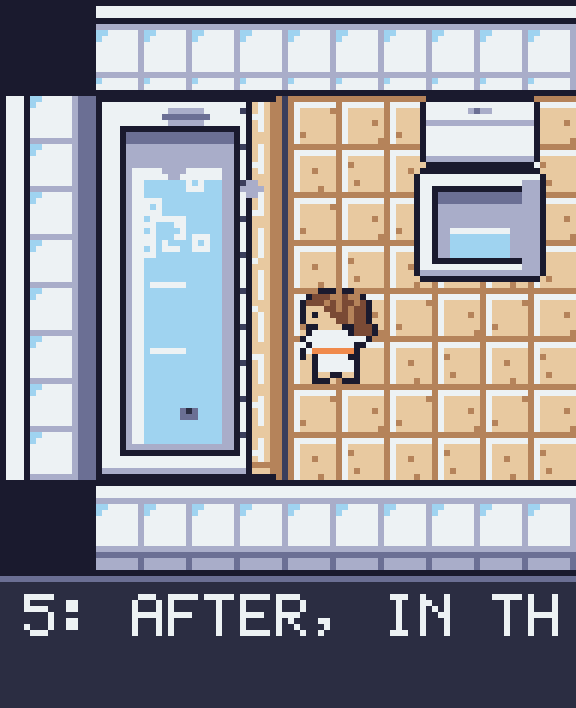
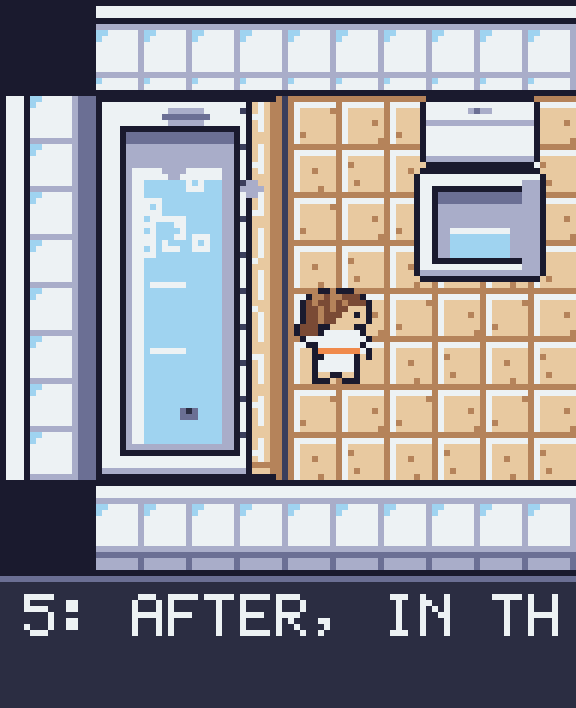
165: update for answers to d9 to d11 (player faces away from the tub)

Changed region(s): [[0.5, 0.404, 0.6562, 0.5282]]

diff --git a/docs/shower-scene-design.md b/docs/shower-scene-design.md
@@ -1,11 +1,11 @@
 # A Sims-like shower scene that ends in the bathrobe (design note, issue 165)
 
-Status: a design for Marc to confirm. Nothing is built; `src/` and `art/` are untouched. Marc answered the questions on 2026-11-24 (in [issues/165-shower-scene.md](../issues/165-shower-scene.md)): the scene plays **in the bath room itself**, the player stays in the tub with the effects drawn over it (d1), bubbles over the body with the head showing, steam and fog drifting up and droplets falling, all calm and slow (d2), a soft hiss and a quiet click when it stops with the music playing on (d3), and with reduced motion the steam is still and the bubbles do not move (d4). There is no cutscene: the player appears in the tub, and afterwards appears beside it in the robe or in everyday clothes (d5). No skip: Escape pays nothing (d6). Every shower plays the whole scene (d7). No close-up (d8). This note replaces an earlier version that designed a composed close-up (it is in git history on this branch).
+Status: a design for Marc to confirm. Nothing is built; `src/` and `art/` are untouched. Marc answered all the questions, d1 to d11, on 2026-11-24 (in [issues/165-shower-scene.md](../issues/165-shower-scene.md)): the scene plays **in the bath room itself**, the player stays in the tub with the effects drawn over it (d1), bubbles over the body with the head showing, steam and fog drifting up and droplets falling, all calm and slow (d2), a soft hiss and a quiet click when it stops with the music playing on (d3), and with reduced motion the steam is still and the bubbles do not move (d4). There is no cutscene: the player appears in the tub, and afterwards appears beside it in the robe or in everyday clothes (d5). No skip: Escape pays nothing (d6). Every shower plays the whole scene (d7). No close-up (d8). This note replaces an earlier version that designed a composed close-up (it is in git history on this branch).
 
 It builds on the outfit slots design of issue 164 ([outfit-slots-design.md](outfit-slots-design.md) on the branch `issue/164-outfit-slots`, not merged), where Marc has answered that waking up and a shower change clothes automatically, that returning to everyday is by hand only, and that each slot takes only its own style. Precedents: the sleeping pose (issue 078, [sleep.md](sleep.md)) for a clothes-free pose, the coffee and dish emitters for particles tied to a task.
 
 ## In short
-- **The shower becomes a pose.** Like sleeping in the bed, `shower` gets `pose: "shower-tub"`: while the task runs the plain player is not drawn and one picture is drawn over the tub, the player standing in it with a heap of soap bubbles from the chin down and the head showing. It is `clothed: false` (like `sleep-bed`), so it is the same for every outfit and nothing flips. The player does not walk anywhere: they "appear" in the tub, and when the task ends they "appear" again on the tile beside it.
+- **The shower becomes a pose.** Like sleeping in the bed, `shower` gets `pose: "shower-tub"`: while the task runs the plain player is not drawn and one picture is drawn over the tub, the player standing in it with a heap of soap bubbles from the chin down and the head showing. It is `clothed: false` (like `sleep-bed`), so it is the same for every outfit and nothing flips. The player does not walk anywhere: they "appear" in the tub, and when the task ends they "appear" again on the tile beside it, facing away from the tub (east).
 - **The effects are the game's normal particles, in the bath room, over the tub.** Four new particle kinds (droplets, steam, fog, floating bubbles) in `PARTICLES.kinds`, emitted by `PARTICLES.taskEmitters.shower`, drawn by the existing pool. Emitters can already be limited to phases; a small generalisation lets a task have phases (in, water, off) from data.
 - **Art: one new sprite**, `player-shower-tub` (16 x 48, palette only, no text), the head and the bubbles at its top.
 - **Sound:** a soft hiss while the water runs and a click when it stops. The hiss needs a small engine addition (section 7).
@@ -77,7 +77,7 @@ The task keeps its 6 seconds, 70 points, mood +6, cooldown and good hours. Its p
 | `in` | 0 to 0.167 | 0.0 to 1.0 | the player appears in the tub in bubbles, the water off; one drip from the tap | none beyond the usual task-start blip |
 | `water` | 0.167 to 0.767 | 1.0 to 4.6 | droplets fall from the tap end onto the bubbles; steam rises; fog drifts; a bubble floats off now and then | the hiss fades in over 0.25 s |
 | `off` | 0.767 to 1 | 4.6 to 6.0 | the droplets stop, two or three late drips, the steam and fog thin out | a click, the hiss fades out in 0.12 s |
-| after | the task has ended | (the room) | the player appears on the tile beside the tub, the bubbles pop (a burst of floating bubbles over the tub), wisps of steam fade over about 2 seconds | the usual chime with the popup |
+| after | the task has ended | (the room) | the player appears on the tile beside the tub, facing east (away from it), the bubbles pop (a burst of floating bubbles over the tub), wisps of steam fade over about 2 seconds | the usual chime with the popup |
 
 The pose picture is one still picture for all three phases: the water is in the particles, not in the art. (The sleeping pose is the same idea: a picture, and effects over it.)
 
@@ -113,11 +113,11 @@ The existing `steam` (2 x 2 `paper`, the coffee's) and `bubble` (the sink's `dot
 **After the task.** A new small data table (`PARTICLES.finish`, by task id) makes `ParticlesFeature` burst a few particles when that task completes (it already bursts confetti on `taskComplete`): about 8 `foamBubble` over the tub, so the bubbles "pop" as the player appears outside. The steam and fog already in the pool carry on and fade by themselves within about 4 seconds; leaving the room clears the pool. Escape leaves the same leftovers fading, with no burst (not a completion).
 
 ## 6. How it ends: where the player is, the robe, Escape
-- **Where the player stands afterwards:** where they stood before. The pose never moves the player (the bed's does not either): they pressed E on col 3, rows 1 to 4, facing the tub, so after the task the plain player is drawn on that same tile, facing the tub. That tile is free by construction (they stood on it), it is on the walkway, and the way out (the door at col 8, row 3) is the same as before. Nothing relocates the player or checks the map. (d10 asks if Marc would rather have one fixed place.)
+- **Where the player stands afterwards (d10, Marc's answer):** on the tile they stood on, **facing away from the tub**. The pose never moves the player (the bed's does not either): they pressed E on col 3, rows 1 to 4, facing left (west) at the tub, so that tile is free by construction and on the walkway, and nothing relocates the player or checks the map. The tub is on the west wall, so away from it is **right (east)**: after the task the player faces `right`, toward the room and the door (col 8, row 3). Both frames exist: `player-idle-right` and `player-pajamas-robe-idle-right` (every outfit has `idle-right`, `render/player-sprite.ts` `framesFor`), and the mockups for picture 5 use them. The flip is the one new bit of behaviour this answer adds: a data entry (`TURN_AWAY_AFTER: ["shower"]` in `config.ts`) and a few lines in `Game` on `taskComplete` that set `player.facing` to `right` (the tub is only ever faced from the east, so it is always `right`; `facing` is a plain field the host already writes, `activityHost().player.face`). Escape does not turn the player: they are still facing the tub, as they were.
 - **The robe:** the occasion of issue 164 listens for `taskComplete` of `shower`, stores a pending change and applies it when no task, dialog or pose is active (164 section 5); `interaction.finish` sets `active` to null before `onComplete`, so the player is free the same frame unless an ad encounter starts (then it waits for the card). The change is `wearSlot("robe")`: the bathrobe if one is in the ROBE slot, otherwise the EVERYDAY outfit (an empty slot falls back to everyday: Marc's answer in 164). The pose draws no clothes, so there is no frame in which the wrong clothes show: the player is a head in bubbles, then the plain player in whatever was just put on. This scene must not write `worn` and does not touch the slots. It does not even need `outfitSlots.resolve`: the unbuilt part is entirely in 164. Until 164's occasion exists, nothing changes `worn` and the player simply reappears in what they wore.
 - **Escape**, at any phase: the activity is cancelled (`cancellable` as today), which pays nothing, applies no mood, starts no cooldown and fires no `taskComplete`, so no occasion and no robe (164 relies on this); the pose goes and the plain player is back on their tile; the hiss fades in 0.12 s and `taskCancelled`'s blip plays; the shower can be started again at once. No skip-to-the-end (d6).
 - **Touch:** nothing to press; "B TO STOP" is the existing hint.
-- **Towel (Marc's aside under d5):** a towel as a ROBE-slot outfit, even the default, would be new outfit art through the generator (issue 158: 17 sprites per outfit) and a decision about styles under 164's strict slots. It is not part of this scene; it is a new question (d9).
+- **Towel (Marc's aside under d5):** a towel as a ROBE-slot outfit, even the default, would be new outfit art through the generator (issue 158: 17 sprites per outfit) and a decision about styles under 164's strict slots. It is not part of this scene; Marc's answer (d9) is not now, and a towel is a later outfit idea.
 
 ## 7. Sound (d3)
 A soft hiss while the water runs, a quiet click when it stops, the music and a playing record left alone (no ducking, unlike sleep).
@@ -140,7 +140,7 @@ Marc's answer: the steam is still and the bubbles do not move; the scene is othe
 | Fog | drifting clouds | a fixed set of 3, the same way |
 | Floating bubbles | rise and sway | not made (the pose's bubbles are a still picture anyway) |
 | Pop at the end | a burst of rings | not made |
-| Droplets | fall from the tap end | unchanged: 1 x 2 pixels, a few pixels of travel in 0.15 s; they are the signal that the water is on (d11 asks) |
+| Droplets | fall from the tap end | unchanged: 1 x 2 pixels, a few pixels of travel in 0.15 s; they are the signal that the water is on (d11: Marc kept them) |
 | Phases, timing, sound, Escape, the pose, the robe | as designed | unchanged |
 
 How: an emitter gets a flag, `motion: "moves"` (skipped when reduced; the default) or `"still"` (runs only when reduced); a still emitter has `every` at least as long as the phase, so it makes one batch per phase (an emitter that stops applying forgets its timer and "starts with a puff next time", section 1), and its kind has a life as long as the phase and zero speed. The mockup (3 with reduced motion) shows it. About 10 lines in the feature, plus data. `docs/reduced-motion.md` gets a row after building. There is no screen cut and no brightness change in this scene at all (it is the room, already on screen), so nothing here is a flash.
@@ -150,7 +150,7 @@ How: an emitter gets a flag, `motion: "moves"` (skipped when reduced; the defaul
 2. **The clock:** the shower does not hold or skip it, so 6 s of play is 12 game minutes, as today; the time-of-day tint and the lamps carry on. A shower that straddles a good-hour boundary is judged at completion, as now.
 3. **A record playing:** the music goes on; the record player's note emitter is anchored to `record-stand`, which is not in the bath, so it makes none there (anchors return null for a missing piece).
 4. **Loading a save, or "sync now", mid-shower:** tasks are not saved, so a loaded game starts with the player free on their tile and nothing in the pool; applying another device's decor mid-task does not touch the pose.
-5. **An ad encounter right after:** it starts after `taskComplete`; the player stands in the old clothes behind the card until it ends and the occasion applies (164's gate).
+5. **An ad encounter right after (and the turn):** the turn happens on `taskComplete` with the rest, before the card; the encounter starts after `taskComplete`; the player stands in the old clothes behind the card until it ends and the occasion applies (164's gate).
 6. **Missing pose art:** the plain player is drawn and the missing file is logged once (`currentPose`), so a half-built stage never breaks the task; the particles still run.
 7. **The pose hidden behind the tub:** only if its bottom edge falls above the tub's, so the build fixes `at.y + size.h` to the tub's bottom (80) and a test checks it, like the existing "draws the pose after the furniture it overlaps" (`poses.test.ts`).
 8. **A dialog or popup during the task:** popups rise above the pose picture (`playerPopup`); a dialog cannot open during a task.
@@ -168,17 +168,14 @@ Three stages, each a branch and an independent review. 1 and 2 are independent; 
 | Stage | What | Size |
 |---|---|---|
 | 1. The pose | `player-shower-tub` (16 x 48) in `art/src`; `POSES["shower-tub"]` (`clothed: false`, `on: "tub"`, `at: { x: 6, y: 16 }`, size 16 x 48); `shower: { pose: "shower-tub" }` in the task table (the effects stay). Tests: the pose is in front of the tub, falls back to the plain player when the art is missing, the plain player is back after the task and after Escape, points and mood unchanged. | 1 sprite, about 8 lines of config, about 70 lines of tests |
-| 2. The effects | `TASK_PHASES` and `Game.taskPhase`; string phases in `EmitterDef`; `motion` on emitters; `PARTICLES.finish`; the four shapes and four kinds, `taskEmitters.shower`, the still variants; the finish burst in the feature. Tests: every shape and kind exists, phases switch at the fractions, emitters run only in their phase, reduced motion runs only still emitters and one batch per phase, the finish burst on completion and not on Escape, the pool never exceeds its budget over a whole shower. A render check of the five pictures with the real art. | about 60 lines of config, 40 of code, 150 of tests |
+| 2. The effects | `TURN_AWAY_AFTER` and the turn on completion (about 8 lines); `TASK_PHASES` and `Game.taskPhase`; string phases in `EmitterDef`; `motion` on emitters; `PARTICLES.finish`; the four shapes and four kinds, `taskEmitters.shower`, the still variants; the finish burst in the feature. Tests: the player faces right after a finished shower and still faces the tub after Escape; every shape and kind exists, phases switch at the fractions, emitters run only in their phase, reduced motion runs only still emitters and one batch per phase, the finish burst on completion and not on Escape, the pool never exceeds its budget over a whole shower. A render check of the five pictures with the real art. | about 60 lines of config, 40 of code, 150 of tests |
 | 3. The sound | The `shower` bus, noise `loop` and `hold`, `showerClick`, `ShowerSound` wired in `SoundFeature`. Tests with the fake audio: bus up in `water`, zero after Escape and after the end, nothing without a synth, mute untouched. | about 25 lines in the synth, 70 in `ShowerSound`, 120 of tests |
 | Integration | Once 164's stage 2 exists, a test: finishing `shower` puts the player in the ROBE slot's outfit, or everyday with none, and Escape changes nothing. No code of 165's. | about 40 lines of tests |
 
 Docs to update when built: [reduced-motion.md](reduced-motion.md) (a row), [art-style.md](art-style.md) (the one sprite), [tasks.md](tasks.md) (the shower), [ideas.md](ideas.md) (remove 'Put on the robe after a shower').
 
 ## 12. Questions
-Marc's answers are on the issue (d1 to d8, all answered). New ones, each with a recommended default and an open `decisions` entry on the issue:
-- **d9** a towel: should a towel be a second ROBE-slot outfit, and the default when no robe is owned? Recommended: not now; the empty slot falls back to everyday clothes, and a towel is filed as a later outfit idea (new art through the outfit generator and a style decision under 164's strict slots).
-- **d10** where the player appears after the shower. Recommended: on the tile they stood on (beside the tub, facing it), no relocation.
-- **d11** droplets under reduced motion. Recommended: keep them (tiny and short; they are what says the water is on); the steam, fog and bubbles are the ones that go still.
+All answered by Marc on 2026-11-24 (d1 to d8, then d9 to d11); nothing is open. d9: no towel now; an empty ROBE slot falls back to everyday clothes, and a towel is filed as a later outfit idea (new art through the outfit generator and a style decision under 164's strict slots). d10: the player appears on the tile they stood on, facing away from the tub (section 6). d11: the droplets stay under reduced motion (the planner's call: they are what says the water is on), so section 8 stands as written.
 
 ## 13. Not checked
 - Nothing was run in a browser: how the scene looks and feels at real size and speed, the timing, the touch layer and how small the bubbles read on a phone are designed from the code and the mockups.
